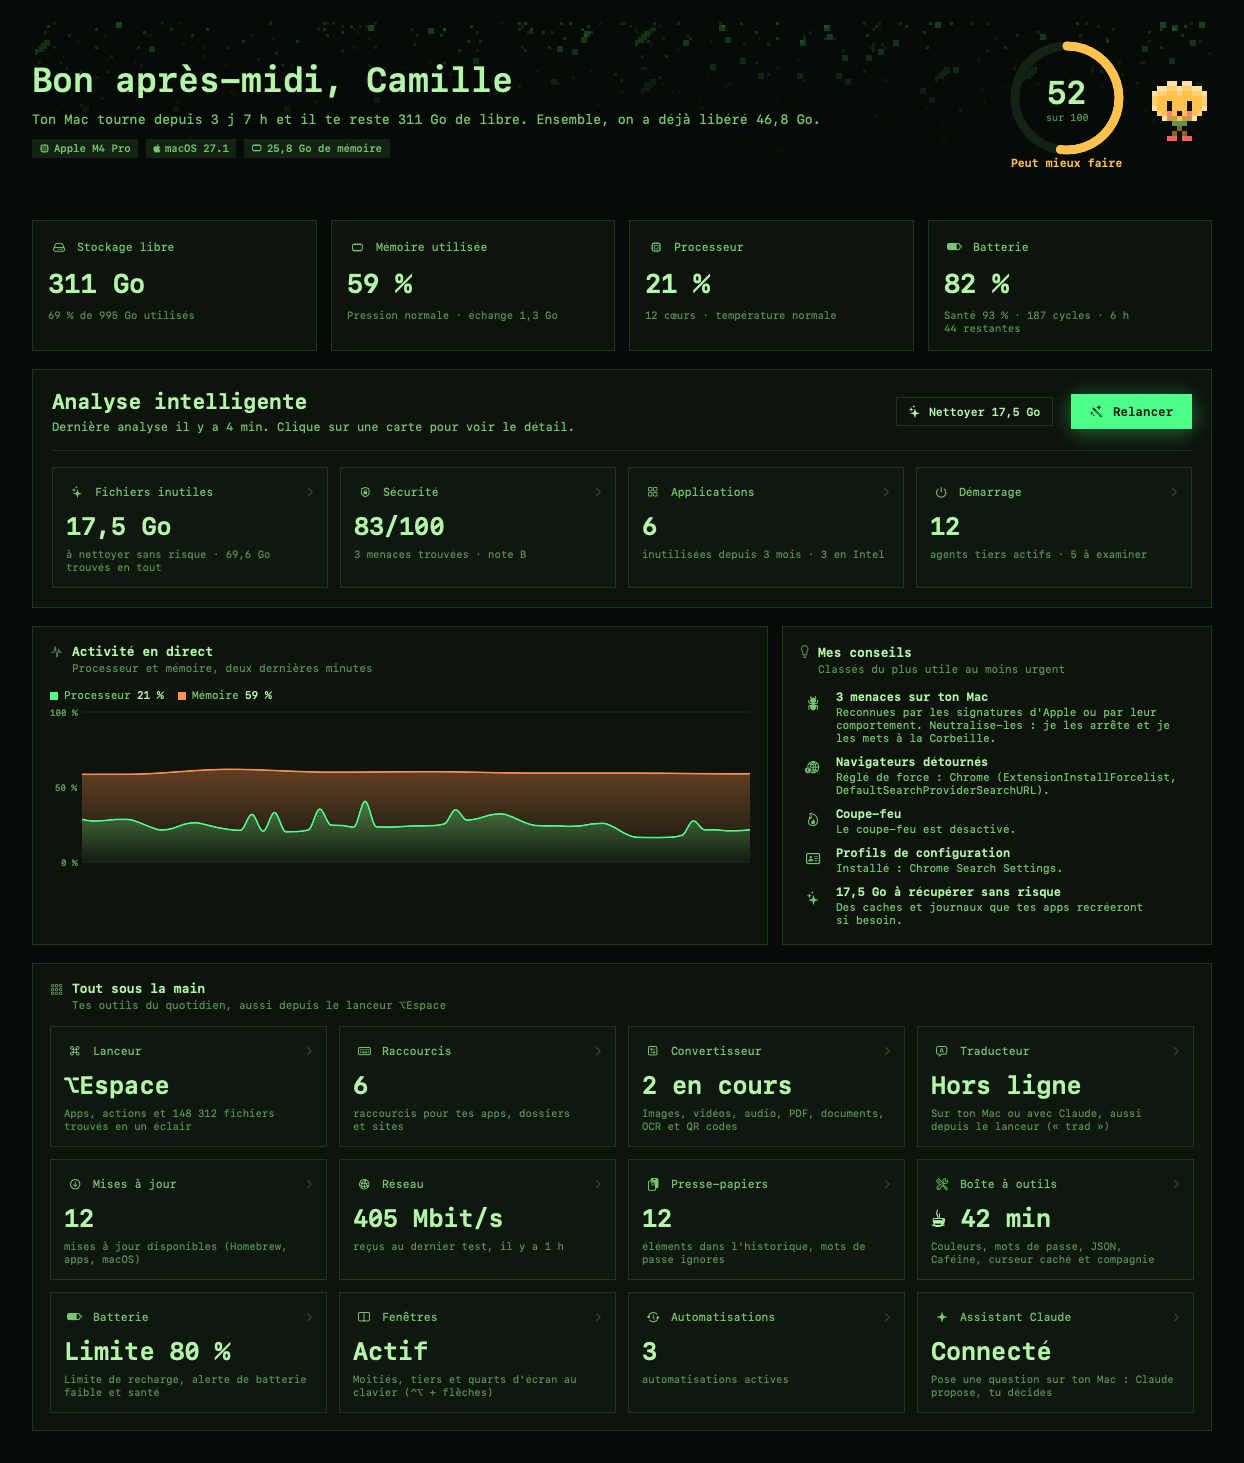
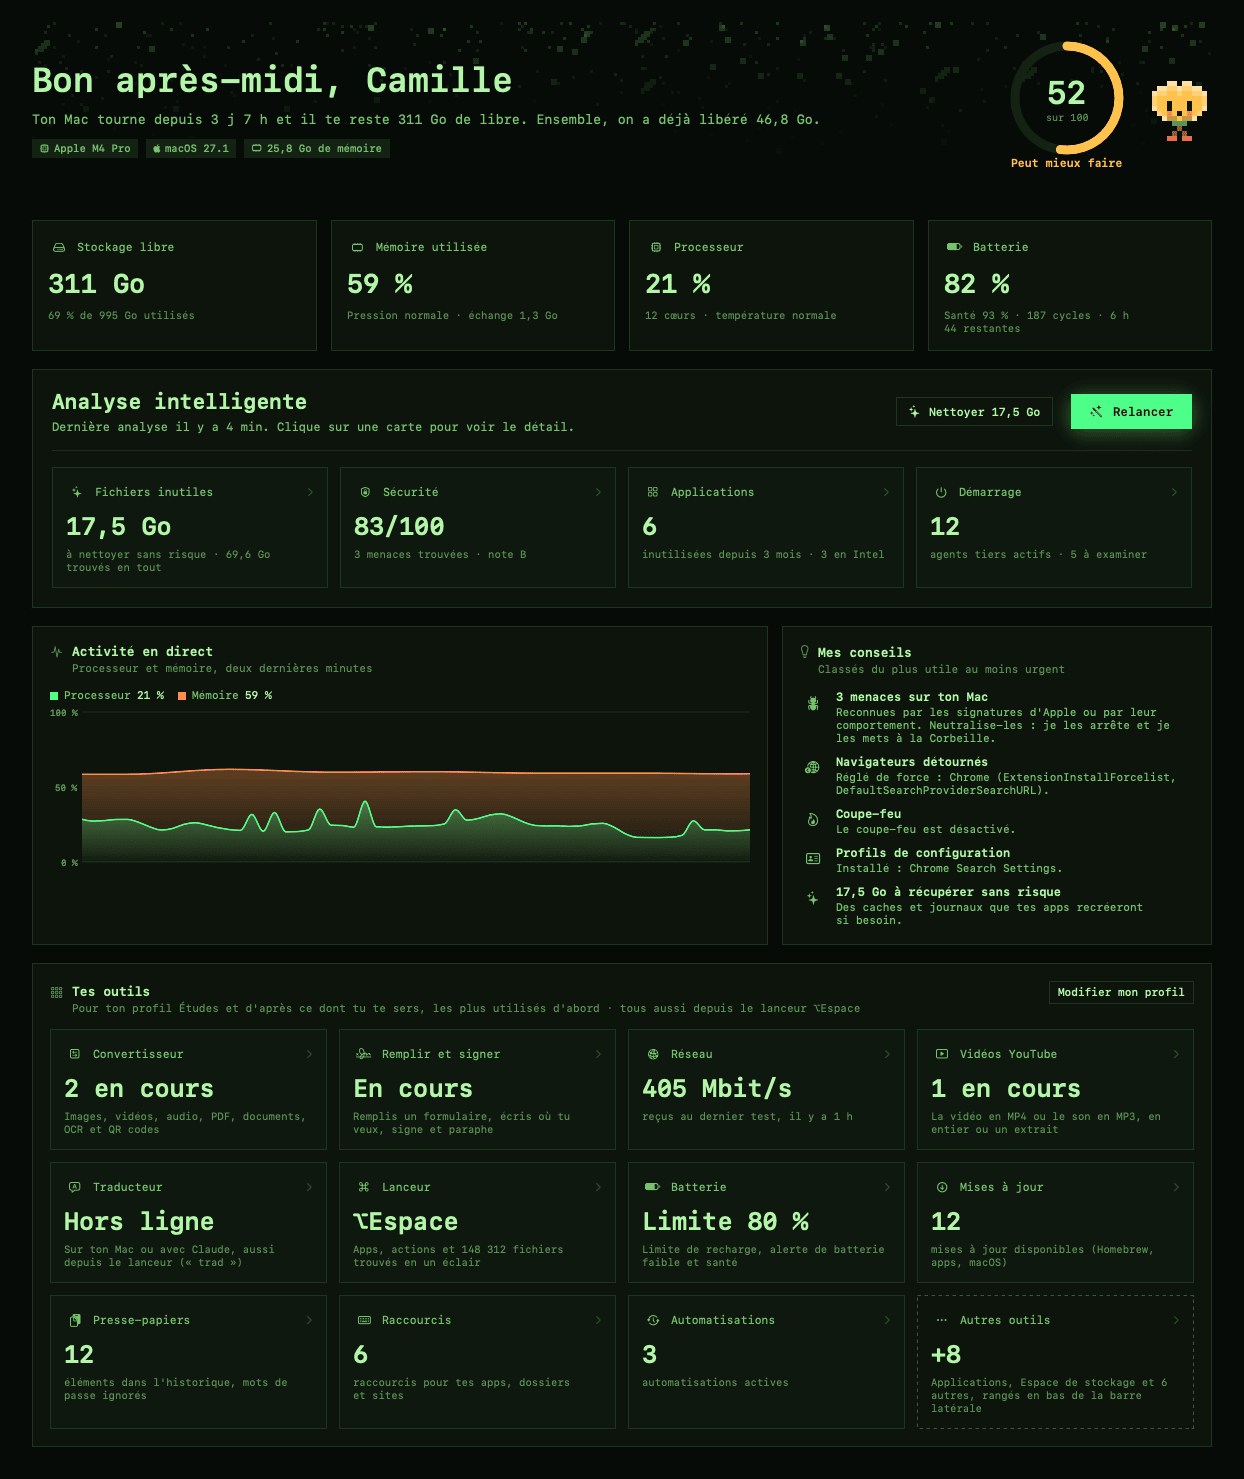
Guide : les profils et le panneau « Ton profil », captures du tableau de bord régénérées

diff --git a/docs/GUIDE.md b/docs/GUIDE.md
@@ -3,7 +3,7 @@
 Tout ce que fait l'app, comment elle protège tes données, et comment la compiler toi-même. Pour l'installer, deux lignes suffisent : voir le [README](../README.md).
 
 <p align="center">
-  <img src="screenshots/dashboard.png" alt="Tableau de bord : score de santé, stockage, mémoire, processeur, batterie, analyse intelligente, activité en direct, conseils et état de chaque outil" width="900">
+  <img src="screenshots/dashboard.png" alt="Tableau de bord : score de santé, stockage, mémoire, processeur, batterie, analyse intelligente, activité en direct, conseils et les outils du profil, les plus utilisés d'abord" width="900">
 </p>
 
 <table>
@@ -87,11 +87,21 @@ Tout ce que fait l'app, comment elle protège tes données, et comment la compil
 
 ## Ce que fait l'app
 
+### Une app à ta mesure
+
+Au premier lancement (puis sous le nom de l'app, dans la barre latérale), tu coches ce que tu fais avec ton Mac, même plusieurs : **L'essentiel**, **Études**, **Travail**, **Création**, **Loisirs** ou **Touche-à-tout**. L'entretien reste pour tous ; les outils de ton profil sont mis en avant, les autres se rangent dans **Autres outils**, en bas de la barre latérale. Rien ne disparaît : le lanceur trouve tout, et un clic droit garde ou range n'importe quel outil. Sans profil, tout reste affiché.
+
+L'app s'adapte aussi à ce dont tu te sers, sans rien envoyer nulle part : un outil ouvert trois jours sur un mois (ou lancé depuis le lanceur) rejoint la barre, un outil allumé (historique du presse-papiers, automatisations, raccourcis, limite de batterie) y reste, et un outil de ton profil oublié depuis 45 jours se range, jamais dans le mois qui suit ton choix. Le panneau **Ton profil** dit pour chaque outil pourquoi il est là.
+
+<p align="center">
+  <img src="screenshots/profile-panel.png" alt="Panneau Ton profil : six profils à cocher (Études coché), puis chaque outil avec la raison de sa place : Pour tous, Études, Tu t'en sers, Activé, Hors profil, Pas ouvert depuis 45 j" width="720">
+</p>
+
 ### Entretien
 
 | Section | Contenu |
 | --- | --- |
-| **Tableau de bord** | Score de santé sur 100, stockage, mémoire, processeur, batterie (santé, cycles), activité en direct, **analyse intelligente** qui passe tout en revue en une minute, conseils classés par utilité, et l'état de chaque outil |
+| **Tableau de bord** | Score de santé sur 100, stockage, mémoire, processeur, batterie (santé, cycles), activité en direct, **analyse intelligente** qui passe tout en revue en une minute, conseils classés par utilité, et **tes outils** avec leur état, les plus utilisés d'abord |
 | **Nettoyage du système** | Caches d'apps et de macOS, journaux, fichiers temporaires, Xcode (données dérivées, appareils, archives, simulateurs), caches npm / Yarn / pip / Homebrew / CocoaPods / Go / Cargo…, dépendances de **projets endormis** (`node_modules`, `.build`, `Pods`, `target`), caches de l'**app Claude** et journaux de **Claude Code**, caches des navigateurs et des apps Electron, Corbeille, pièces jointes Mail, installeurs oubliés, sauvegardes d'iPhone |
 | **Protection et confidentialité** | **Antimalware** avec les 572 signatures d'XProtect appliquées à tout ce qui est déjà sur le Mac (analyse rapide ou complète), traces de familles connues, apps modifiées après leur signature, et neutralisation (arrêt puis Corbeille) ; **bilan de 40 points** en sept familles (défenses de macOS, mises à jour, accès, partages, réseau intercepté, secrets laissés en clair, navigation) avec une note sur 100, deux niveaux d'exigence et des **corrections en un clic** ; tout ce qui **démarre seul** (agents, services, ouverture à la connexion, cron, extensions) avec les usurpateurs d'Apple et les téléchargeurs repérés ; **qui t'observe** (programmes qui lisent le clavier, extensions de navigateur, ports ouverts, autorisations) ; **protection en temps réel** (démarrage, Téléchargements, caméra, micro, DNS et proxy) ; effacement des **traces** (éléments récents, téléchargements, vignettes, Terminal, historique et cookies des navigateurs) |
 | **Optimisation** | **Boost** (les apps en arrière-plan passent sur les cœurs économes : modes Intelligent, Performance et Fraîcheur, réflexe thermique, mode Jeu de macOS), **capteurs** sans mot de passe (température du processeur et du GPU, consommation du Mac en watts, fréquences des cœurs, ventilateurs), diagnostic « ce qui ralentit ou chauffe ton Mac », **benchmark** (processeur, GPU en images par seconde, mémoire, SSD, réactivité, test du Boost, endurance thermique, historique), réglages de **fluidité** réversibles (animations, Dock, Finder, compteur FPS des jeux, fréquence des écrans), moniteur temps réel, éléments au démarrage, tâches de maintenance |
@@ -346,7 +356,7 @@ swift build
 .build/debug/CleanMyClaude --dump                 # ce que trouve chaque scanner, sans rien supprimer
 .build/debug/CleanMyClaude --dump --only cleanup  # cleanup | security | apps | processes, ou le nom d'un module
 .build/debug/CleanMyClaude --dump --storage ~/Developer --duplicates ~/Downloads
-.build/debug/CleanMyClaude --snapshot out/        # rend chaque page en PNG (--page, --tab, --light, --theme graphite, --scale 2)
+.build/debug/CleanMyClaude --snapshot out/        # rend chaque page en PNG (--page, --tab, --light, --theme graphite, --scale 2, --profile etudes,loisirs)
 .build/debug/CleanMyClaude --ask "Pourquoi mon Mac chauffe ?" --model haiku   # une question à l'assistant
 .build/debug/CleanMyClaude --translate "Merci pour ton aide" --to en --tone formal   # le traducteur, moteur Claude
 .build/debug/CleanMyClaude --dump --only launcher # construit l'index des fichiers et chronomètre quelques recherches
@@ -369,7 +379,7 @@ done
 for t in graphite phosphore sorbet minuit; do
   .build/debug/CleanMyClaude --snapshot /tmp/theme-$t --demo --page dashboard --theme $t && mv /tmp/theme-$t/dashboard.png docs/screenshots/theme-$t.png
 done
-rm docs/screenshots/menubar.png docs/screenshots/launcher.png docs/screenshots/onboarding-panel.png docs/screenshots/selfupdate-panel.png
+rm docs/screenshots/menubar.png docs/screenshots/launcher.png docs/screenshots/onboarding-*-panel.png docs/screenshots/sidebar-panel.png docs/screenshots/selfupdate-panel.png
 pngquant --quality 80-95 --force --ext .png docs/screenshots/*.png   # optionnel : divise le poids par quatre
 ```
 

diff --git a/README.md b/README.md
@@ -13,7 +13,7 @@
 </p>
 
 <p align="center">
-  <img src="docs/screenshots/dashboard.png" alt="Le tableau de bord de Clean My Claude : santé du Mac, stockage, mémoire, analyse intelligente, conseils et tous les outils" width="860">
+  <img src="docs/screenshots/dashboard.png" alt="Le tableau de bord de Clean My Claude : santé du Mac, stockage, mémoire, analyse intelligente, conseils et les outils de ton profil" width="860">
 </p>
 
 ## Installer en une ligne
